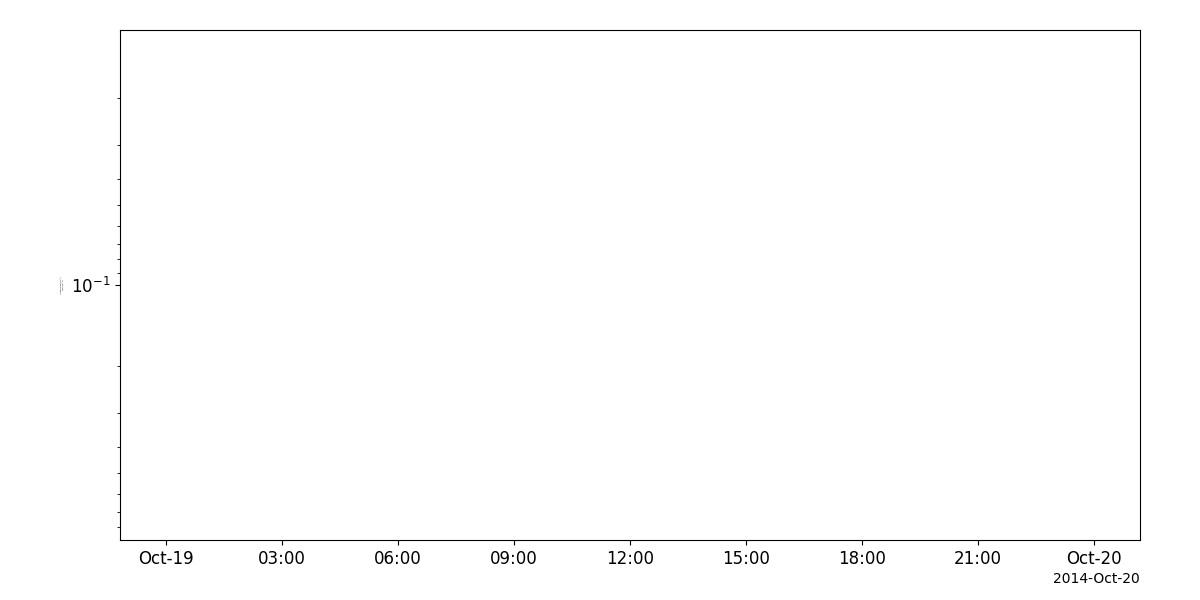
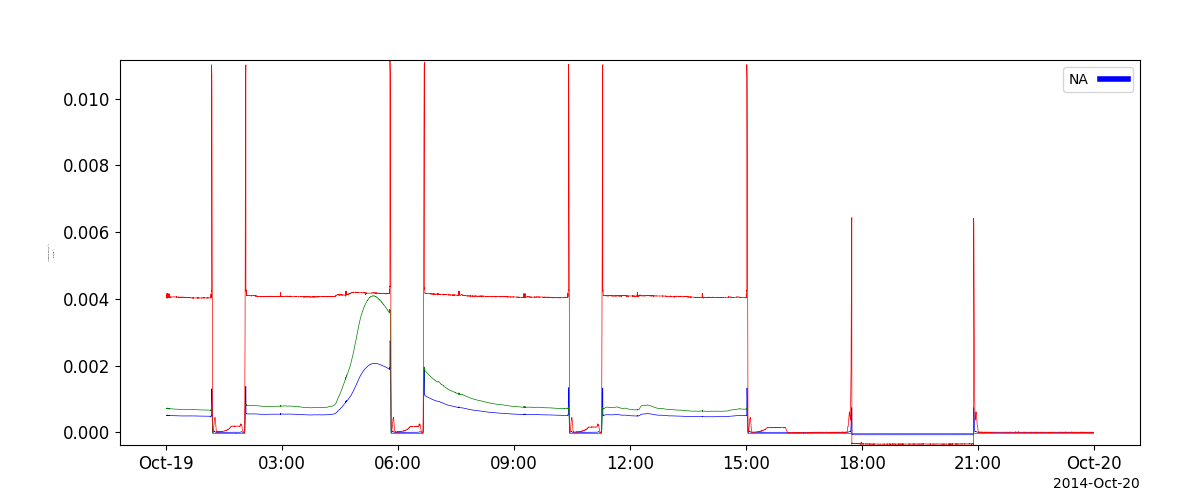
Added/updated some example plots for MAVEN, SOHO, ST5, and LANL, tweaked LANL docstrings

diff --git a/pyspedas/lanl/__init__.py b/pyspedas/lanl/__init__.py
@@ -16,10 +16,7 @@ def mpa(
     time_clip=False,
 ):
     """
-    This function loads data from the Magnetospheric Plasma Analyzer (MPA)
-    Loads LANL data for the specified instrument and probe.
-
-    Can load data from two instruments, the Magnetospheric Plasma Analyzer (mpa) and the Synchronous Orbit Particle Analyzer (spa).
+    Load data from the LANL Magnetospheric Plasma Analyzer (MPA)
 
     Parameters
     ----------
@@ -94,10 +91,7 @@ def spa(
     time_clip=False,
 ):
     """
-    This function loads data from the Synchronous Orbit Particle Analyzer (SPA)
-    Loads LANL data for the specified instrument and probe.
-
-    Can load data from two instruments, the Magnetospheric Plasma Analyzer (mpa) and the Synchronous Orbit Particle Analyzer (spa).
+    Load data from the LANL Synchronous Orbit Particle Analyzer (SPA)
 
     Parameters
     ----------

diff --git a/docs/source/maven.rst b/docs/source/maven.rst
@@ -139,8 +139,9 @@ Example
 .. code-block:: python
    
    import pyspedas
-   from pytplot import tplot
+   from pytplot import tplot, options
    euv_vars = pyspedas.maven.euv(trange=['2014-10-18', '2014-10-19'])
+   options('mvn_euv_calib_bands_bands','ylog',0)
    tplot('mvn_euv_calib_bands_bands')
 
 .. image:: _static/maven_euv.png
